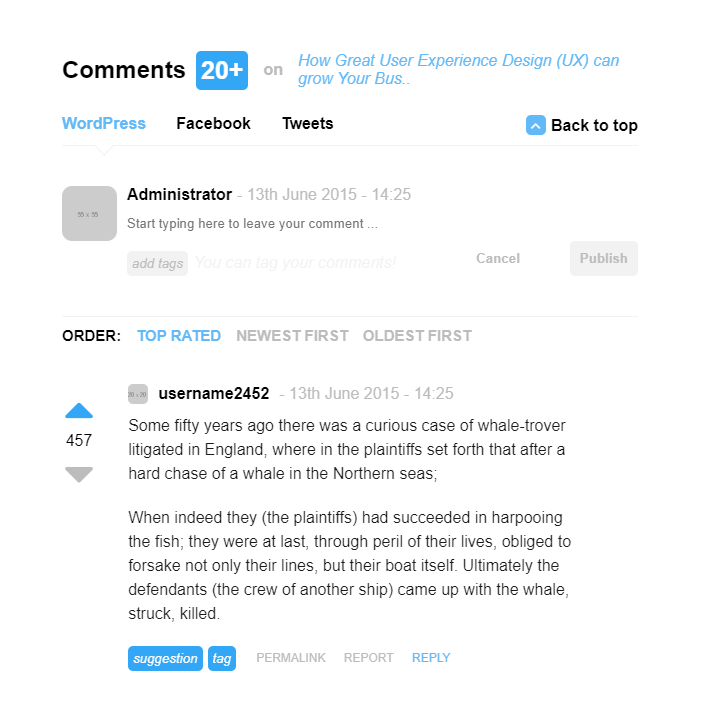
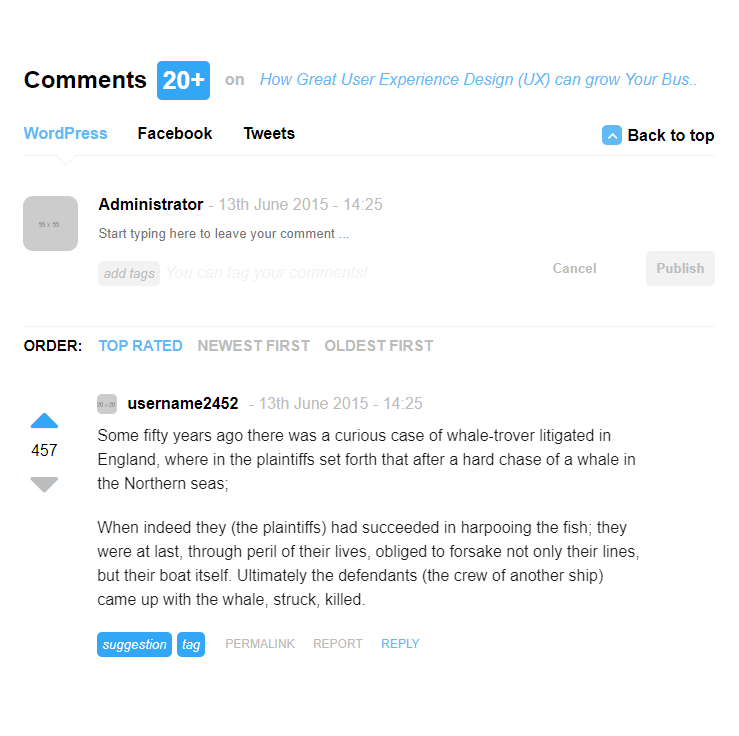
Changed tablet pic

diff --git a/public/css/queries.css b/public/css/queries.css
@@ -36,14 +36,18 @@
 /*** Tablets ***/
 
 @media only screen and (max-width: 768px) {
+    .comment-component {
+        max-width: 90%;
+    }
+
     .user-info::before {
         top: 16%;
-        left: 19%;
-        transform: translateY(25px) translateX(-110%) rotate(45deg);
+        left: 12%;
+        transform: translateY(25px) translateX(-135%) rotate(45deg);
     }
 
     .user-info {
-        gap: 10px;
+        gap: 20px;
     }
 
     .comment-details {
@@ -56,7 +60,7 @@
 @media only screen and (max-width: 425px) {
     .user-info::before {
         top: 16%;
-        left: 24%;
+        left: 17%;
         transform: translateY(25px) translateX(-110%) rotate(45deg);
     }
 

diff --git a/public/index.html b/public/index.html
@@ -17,7 +17,7 @@
             <h2>Comments</h2>
             <a href="#">20+</a>
             <p>on</p>
-            <a href="#"><em>How Great User Experience Design (UX) can grow Your Bus..</em></a>
+            <a href="#">How Great User Experience Design (UX) can grow Your Bus..</a>
         </div>
         <div class="comment-sites">
             <a href="#" class="active">WordPress</a>

diff --git a/public/css/styles.css b/public/css/styles.css
@@ -65,6 +65,8 @@ img {
       margin-left: 10px;
       border-radius: 5px;
       font-size: 25px; }
+    .comment-genre a:last-of-type {
+      font-style: italic; }
 
 /*** Comment Sites ***/
 .comment-sites {

diff --git a/sass/styles.scss b/sass/styles.scss
@@ -111,6 +111,10 @@ img {
             border-radius: $border-radius;
             font-size: 25px;
         }
+
+        &:last-of-type {
+            font-style: $italic-font;
+        }
     }
 }
 
